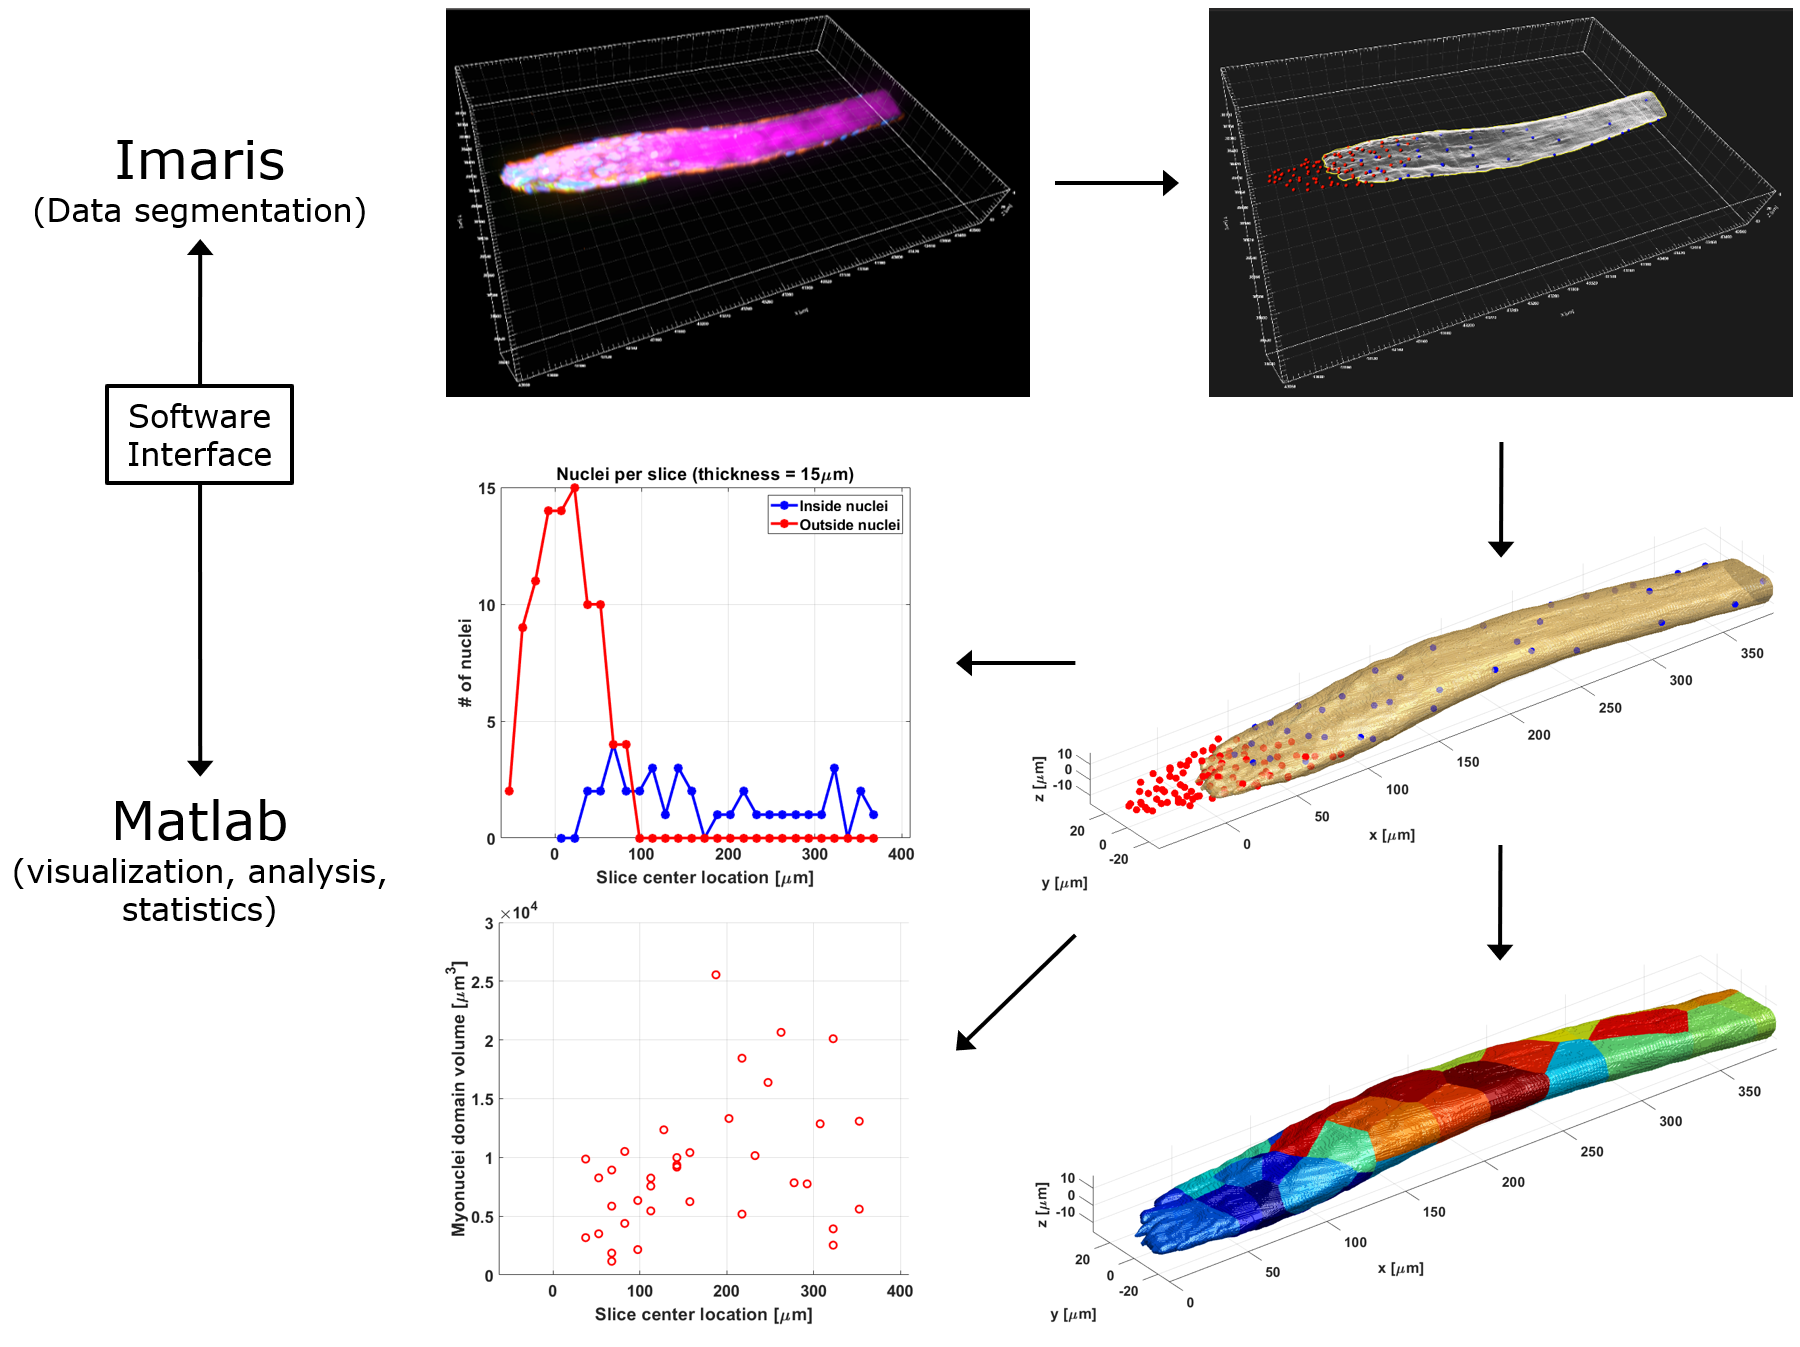
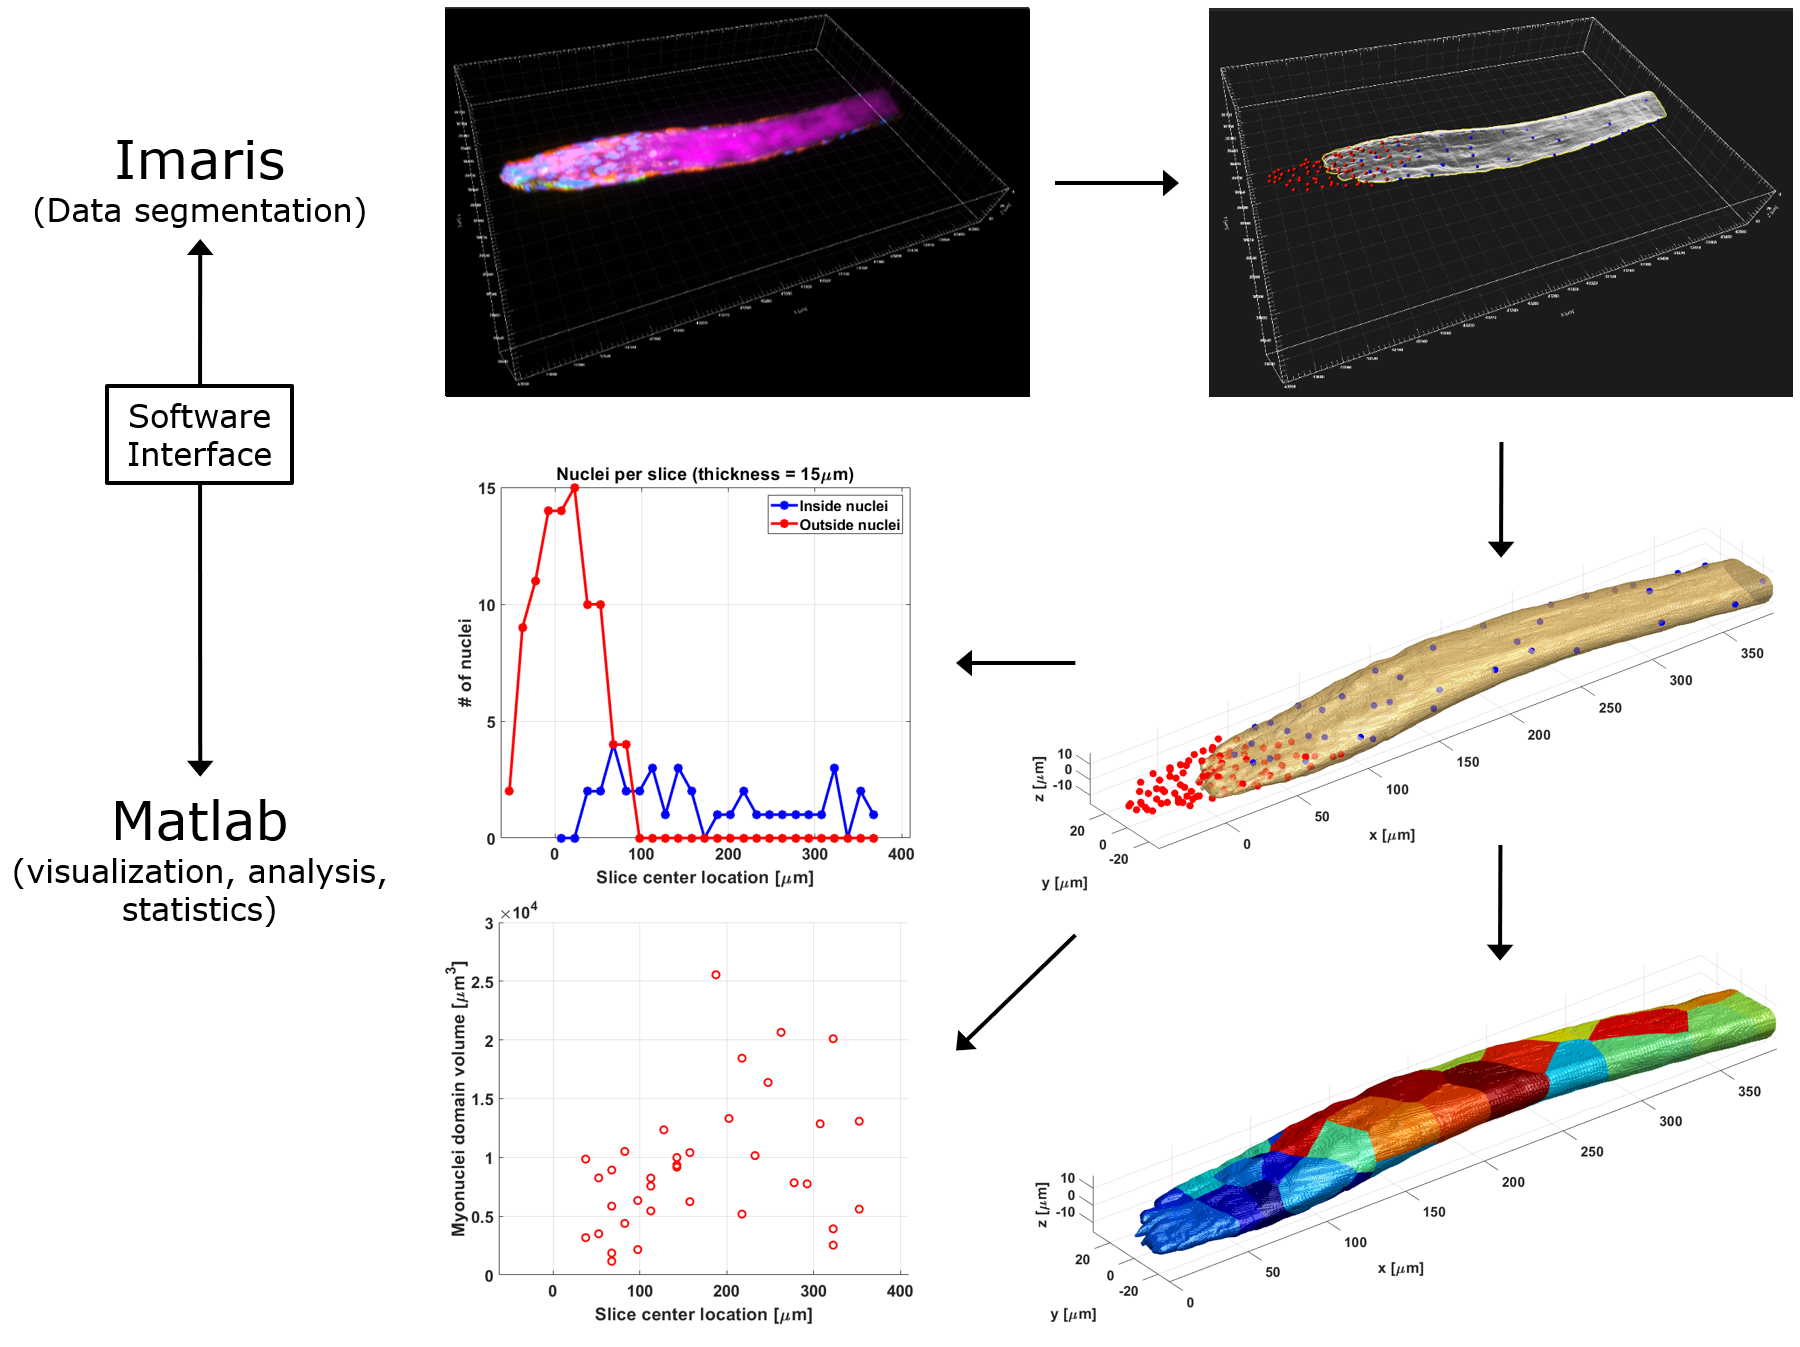
* Update

diff --git a/README.md b/README.md
@@ -1,7 +1,8 @@
 #  Automated-muscle-fiber-analysis
-## Matlab (The Mathworks) plugin for Imaris (Oxford Instruments), developed within the scope of the collaboration between Christian Høgsbjerg and Abigail Mackey, Bispebjerg Hospital, Institute of Sports Medicine Copenhagen
+### Matlab (The Mathworks) plugin for Imaris (Oxford Instruments), developed within the scope of the collaboration between Christian Høgsbjerg and Abigail Mackey, Bispebjerg Hospital, Institute of Sports Medicine Copenhagen. 
+###The goal of this collaboration was to analyze various measures like the myonuclei density along the fiber or the size of the myonuclei domain (MND) from human muscle fiber images. The data segmentation was done manually in Imaris (Oxford Instruments), and the subsequential analysis and results visualization automatically in Matlab (The Mathworks).
 
-## Example image data:
+## Example image data. The colors indicate muscle cell cytoplasm (pink), the myonuclei (blue), the muscle cell membrane (red) and the nuclear envelope for external nuclei (green):
 ![Stained muscle fiber tip](Muscle_fiber_tip_stained.png)
 
 ## Analysis workflow demo:
